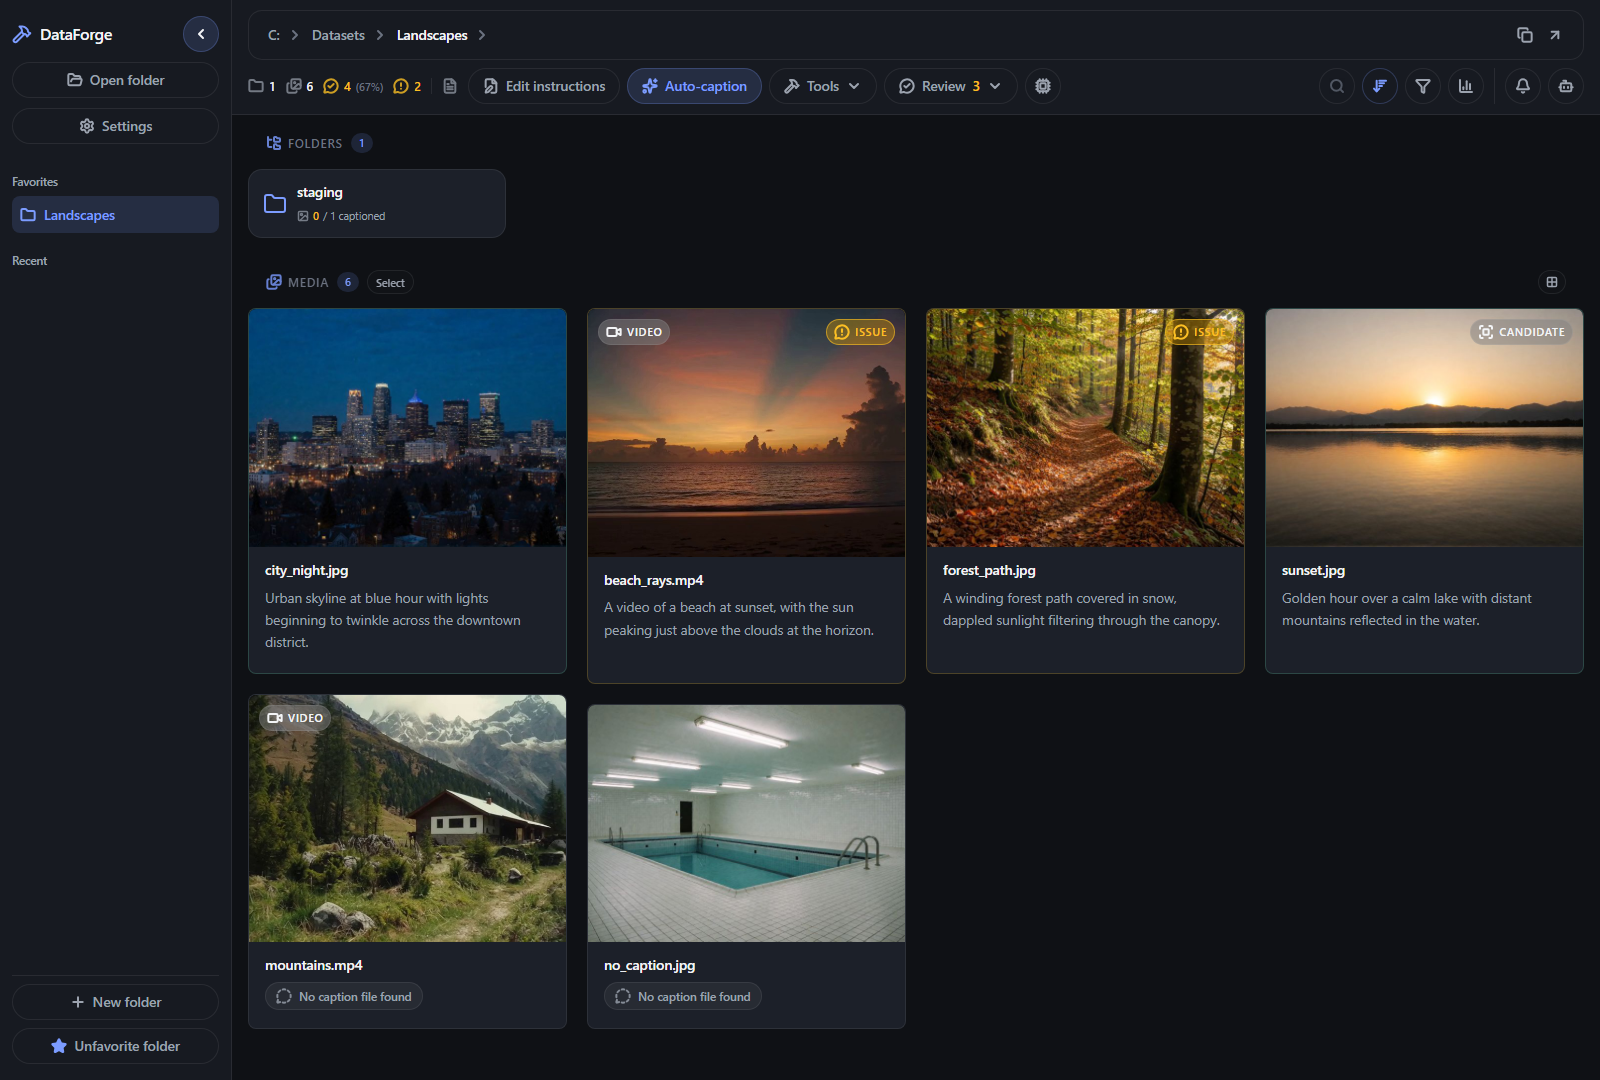
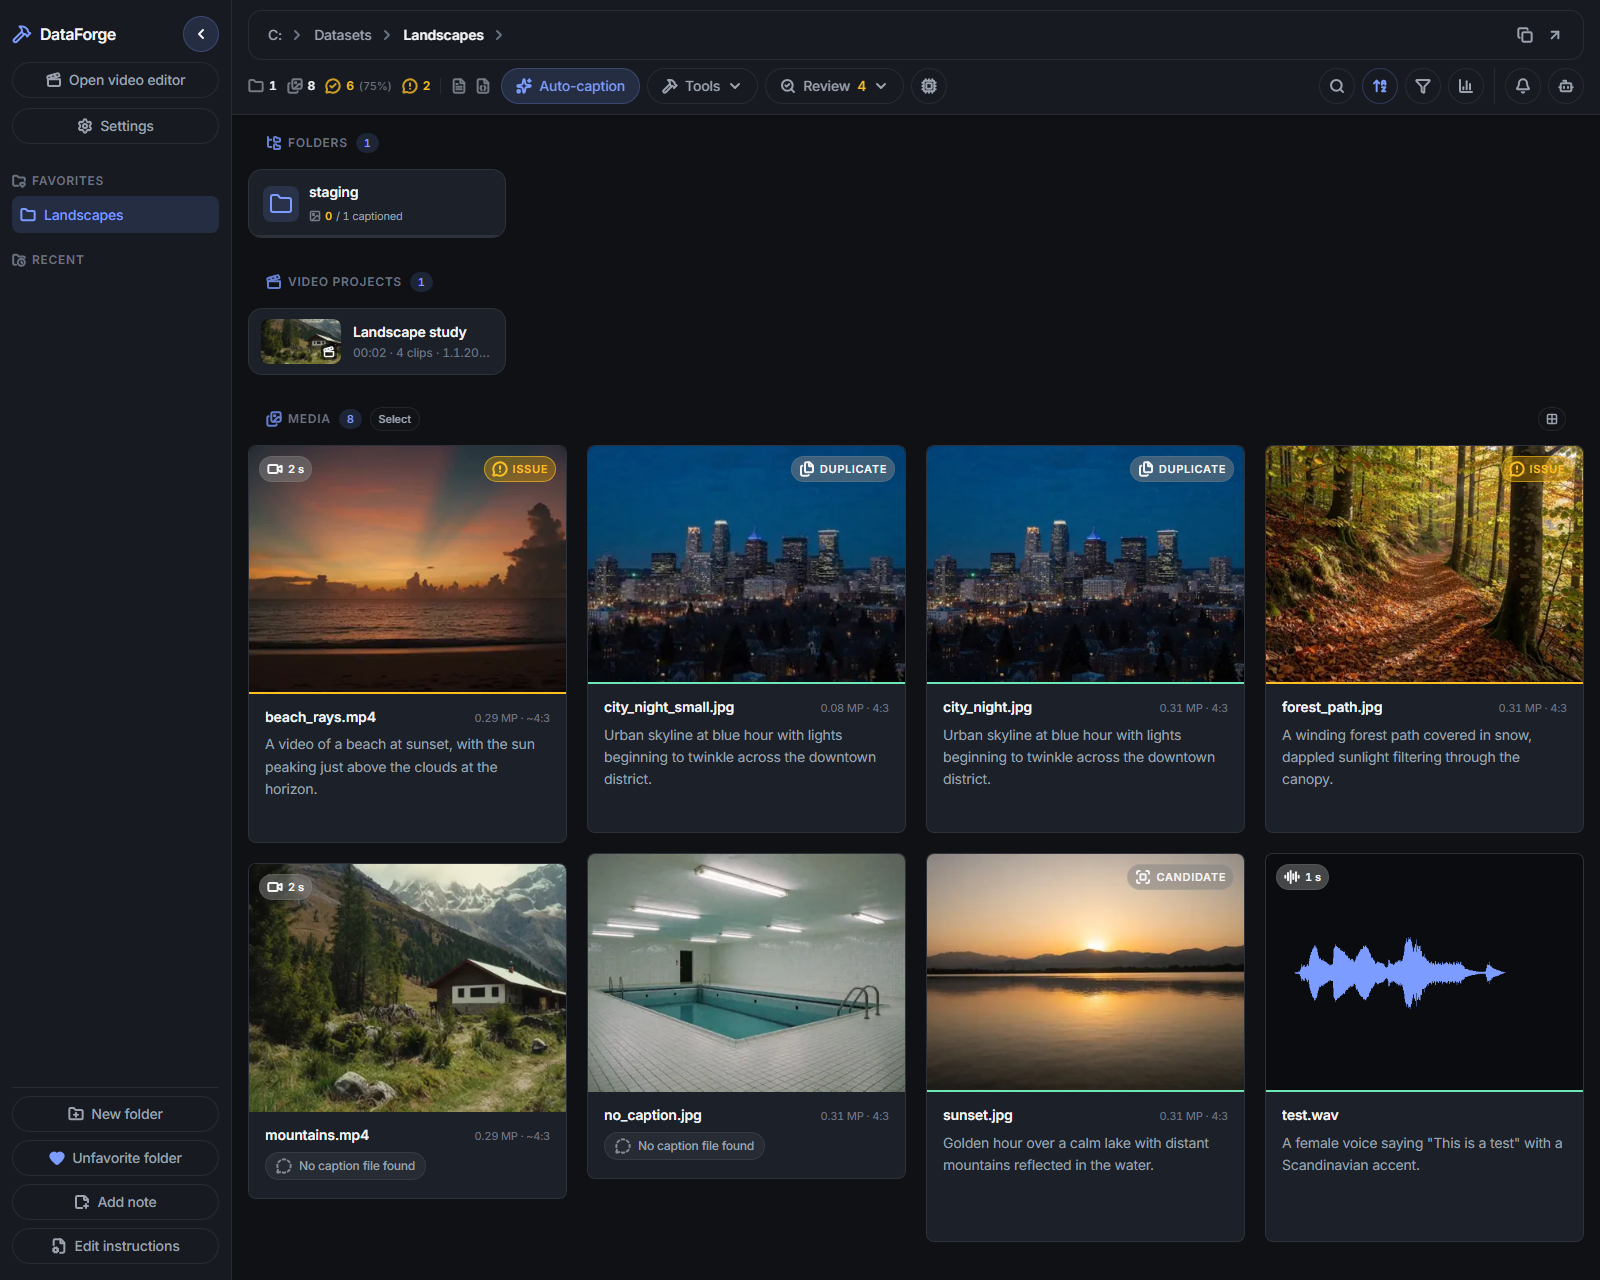
Updated screenshots

diff --git a/README.md b/README.md
@@ -8,7 +8,7 @@
 [![Node](https://img.shields.io/badge/node-20.19%2B-339933?logo=nodedotjs&logoColor=white)](https://nodejs.org/)
 [![Platform](https://img.shields.io/badge/platform-Windows%20%7C%20Linux%20%7C%20macOS-lightgrey)](docs/getting-started.md#requirements)
 
-![DataForge gallery showing sample media, caption coverage, review queues, and captions beneath image and video cards.](docs/gallery.png)
+![DataForge gallery showing a saved video project, caption coverage, review queues, and sample image, video, and audio cards.](docs/gallery.png)
 
 Browse, caption, review, and edit datasets for LoRA training and fine-tuning. Open an existing folder: captions stay in plain `.txt` files beside the media, without a separate library or required import step.
 

diff --git a/docs/video-editor.md b/docs/video-editor.md
@@ -4,6 +4,8 @@
 
 Use the video editor to combine videos, still images, audio, and titles on a multi-track timeline, then export a new MP4. Projects reference the source files in the open folder; editing does not copy or modify those files.
 
+![DataForge video editor showing sample media, a title over the preview, video and audio tracks with a cross-dissolve, and title settings in the inspector.](video-editor.png)
+
 - [Start a project](#start-a-project)
 - [Add and replace media](#add-and-replace-media)
 - [Edit the timeline](#edit-the-timeline)
